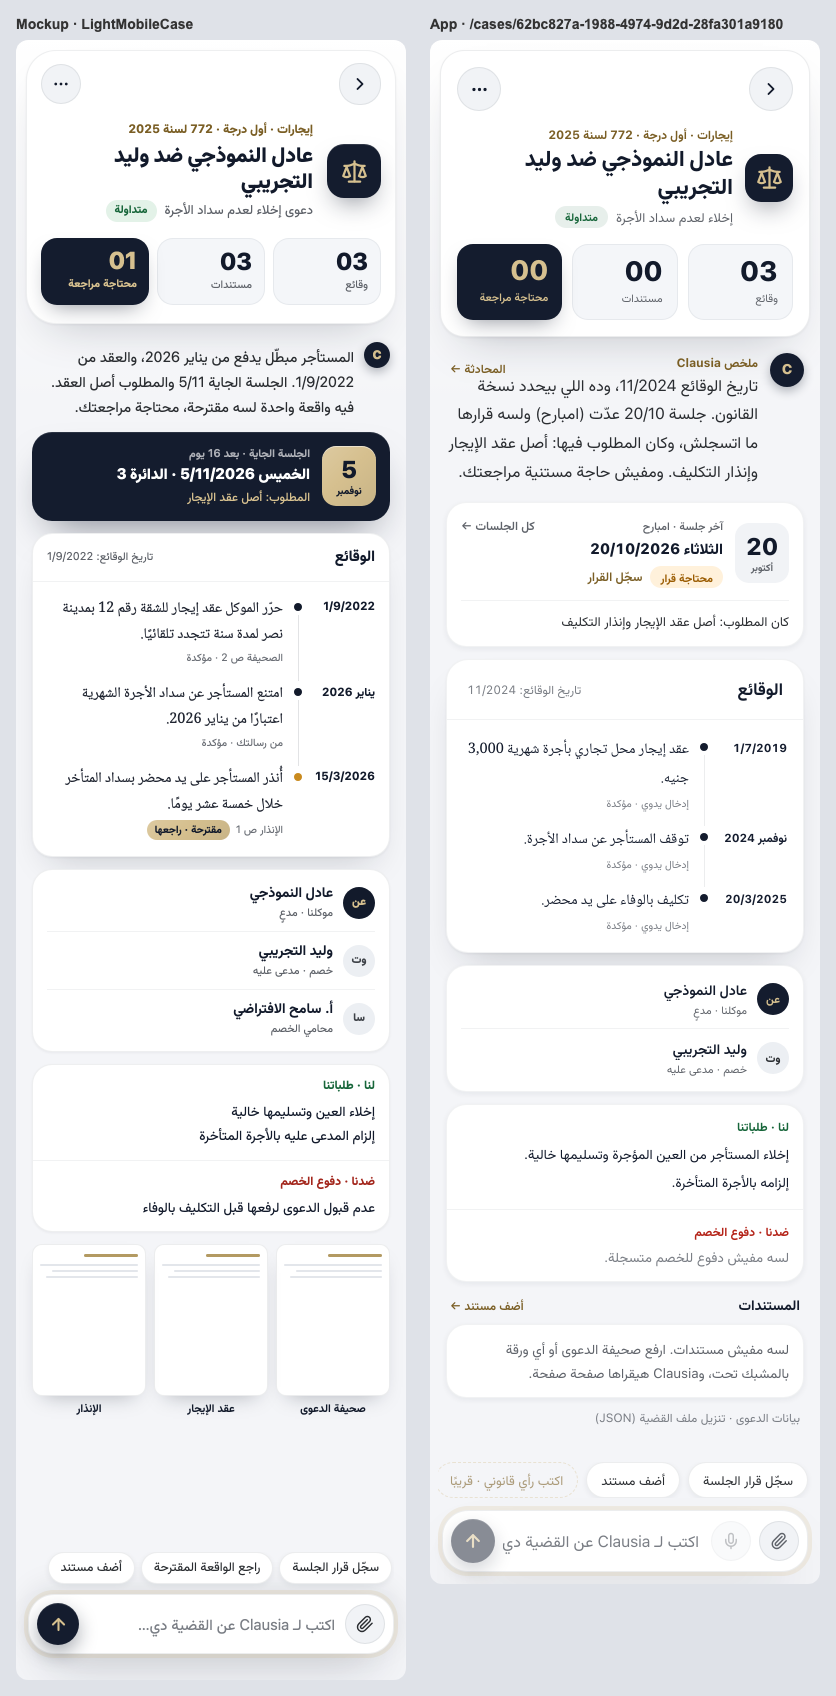
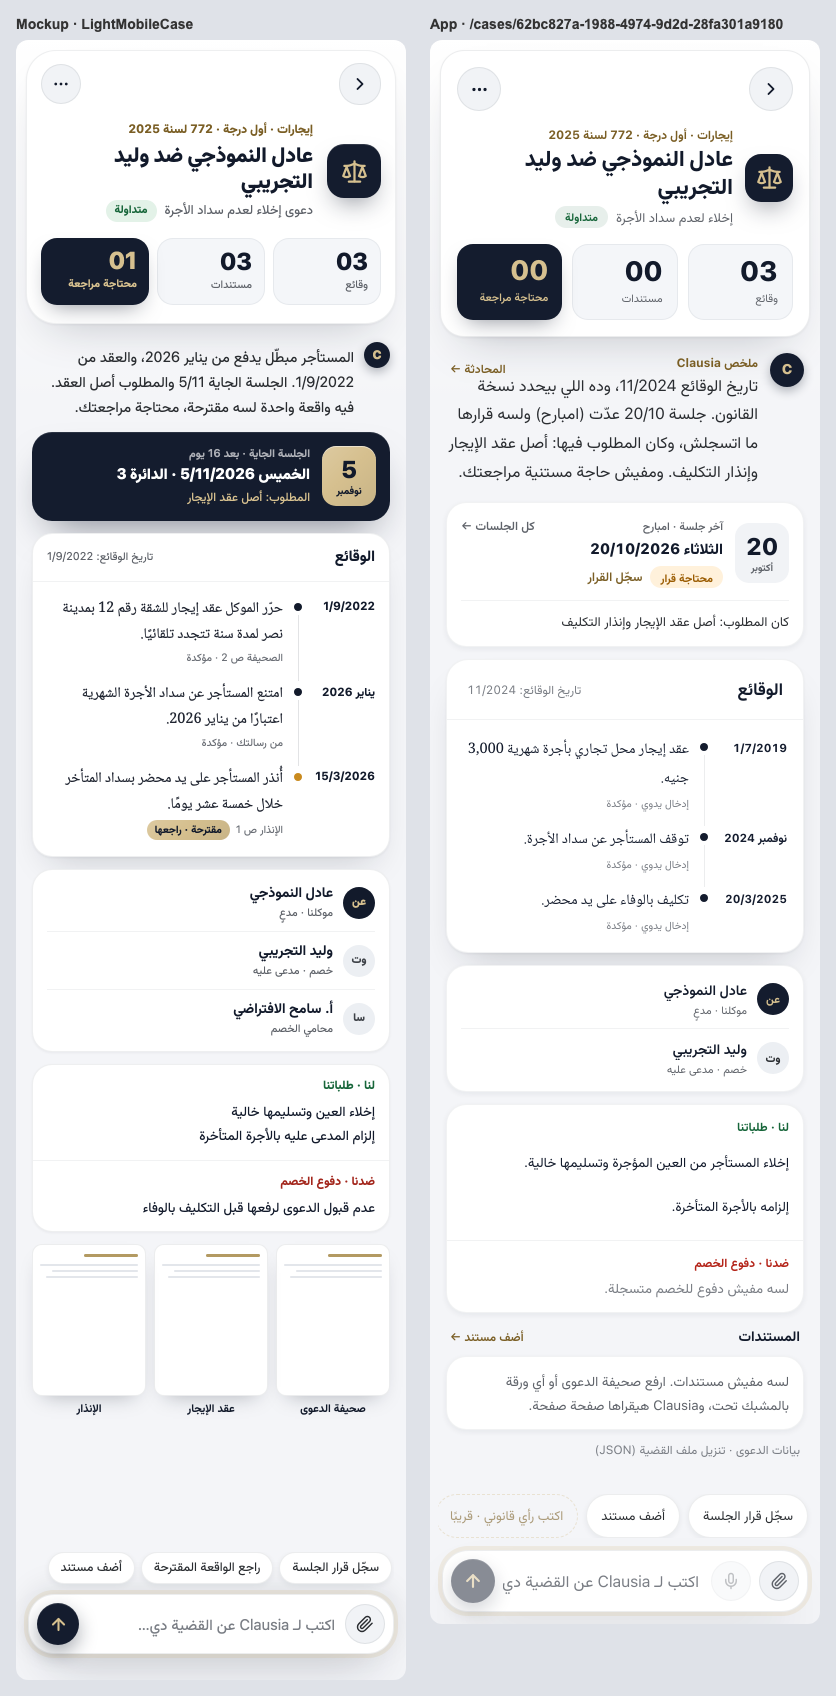
Fable re-review fixes: hero action only on mobile (tiles stay on one row), 44px chips/links/rows, tile shadow token, chat hero link keeps its arrow

Changed region(s): [[0.5287, 0.6562, 0.9641, 0.9688]]

diff --git a/src/app/globals.css b/src/app/globals.css
@@ -68,6 +68,7 @@
   --shadow-pop: inset 0 1px 0 #FFFFFF, 0 0 0 4px var(--accent-ring), 0 30px 60px -24px rgba(18,26,43,0.35);
   --shadow-accent: inset 0 1px 0 rgba(255,255,255,0.55), 0 18px 36px -16px var(--accent-shadow);
   --shadow-mark: 0 4px 10px rgba(18,26,43,0.3);
+  --shadow-tile: 0 12px 26px -10px rgba(18,26,43,0.55);
 
   /* ---- legacy names, mapped onto the new tokens (older components still use them) ---- */
   --paper: var(--bg); --surface: var(--card); --surface-2: var(--card-2); --chrome: rgba(244,245,248,0.82);
@@ -128,6 +129,7 @@
   --shadow-soft: inset 0 1px 0 rgba(255,255,255,0.05);
   --shadow-pop: inset 0 1px 0 rgba(255,255,255,0.05), 0 30px 70px -24px rgba(0,0,0,0.8);
   --shadow-mark: 0 4px 12px rgba(214,192,143,0.25);
+  --shadow-tile: 0 12px 26px -10px rgba(0,0,0,0.6);
   --shadow-accent: inset 0 1px 0 rgba(255,255,255,0.55), 0 18px 36px -16px var(--accent-shadow);
 
   --chrome: rgba(11,15,24,0.8); --line-strong: rgba(255,255,255,0.16); --backdrop: rgba(0,0,0,0.6);
@@ -179,6 +181,7 @@
   --shadow-soft: inset 0 1px 0 rgba(255,255,255,0.05);
   --shadow-pop: inset 0 1px 0 rgba(255,255,255,0.05), 0 30px 70px -24px rgba(0,0,0,0.8);
   --shadow-mark: 0 4px 12px rgba(214,192,143,0.25);
+  --shadow-tile: 0 12px 26px -10px rgba(0,0,0,0.6);
   --shadow-accent: inset 0 1px 0 rgba(255,255,255,0.55), 0 18px 36px -16px var(--accent-shadow);
 
   --chrome: rgba(11,15,24,0.8); --line-strong: rgba(255,255,255,0.16); --backdrop: rgba(0,0,0,0.6);
@@ -249,6 +252,7 @@
   --shadow-pop: var(--shadow-pop);
   --shadow-accent: var(--shadow-accent);
   --shadow-mark: var(--shadow-mark);
+  --shadow-tile: var(--shadow-tile);
   /* type scale (mockups): display 34, title 26/22, body 16, callout 14, caption 12 */
   --text-display: 2.125rem;
   --text-display--line-height: 1.15;

diff --git a/src/components/proposal/ProposalCard.tsx b/src/components/proposal/ProposalCard.tsx
@@ -323,7 +323,7 @@ export function ProposalCard({ proposal: initial, lookup = {} }: { proposal: Pro
                     </div>
 
                     {o.status === "failed" && o.error ? <p className="rounded-xl bg-bad-bg px-3 py-2 text-[13px] text-bad">{o.error}</p> : null}
-                    {o.result_id && o.tool === "create_case" ? <Link href={`/cases/${o.result_id}`} className="inline-block text-[13.5px] font-semibold text-gold-text hover:underline">فتح ملف القضية ←</Link> : null}
+                    {o.result_id && o.tool === "create_case" ? <Link href={`/cases/${o.result_id}`} className="inline-flex min-h-11 items-center text-[13.5px] font-semibold text-gold-text hover:underline">فتح ملف القضية ←</Link> : null}
 
                     {live ? (
                       <div className="flex flex-wrap items-center gap-2">
@@ -384,7 +384,7 @@ export function ProposalCard({ proposal: initial, lookup = {} }: { proposal: Pro
           ) : (
             <p className="text-[13.5px] text-text-2">{decisionSummary(p)}</p>
           )}
-          {caseLink ? <Link href={`/cases/${caseLink}`} className={cx("text-[13.5px] font-semibold text-gold-text hover:underline", openOps.length ? "self-center" : "sm:ms-auto")}>فتح ملف القضية ←</Link> : null}
+          {caseLink ? <Link href={`/cases/${caseLink}`} className={cx("inline-flex min-h-11 items-center text-[13.5px] font-semibold text-gold-text hover:underline", openOps.length ? "self-center" : "sm:ms-auto")}>فتح ملف القضية ←</Link> : null}
         </div>
       </div>
     );

diff --git a/src/components/shell/Composer.tsx b/src/components/shell/Composer.tsx
@@ -81,7 +81,7 @@ export function Composer({ target, placeholder = "اكتب لـ Clausia… ما 
       {chips.length ? (
         <div className="no-scrollbar -mx-1 mb-3 flex gap-2 overflow-x-auto px-1 sm:flex-wrap">
           {chips.map((c) => {
-            const cls = `inline-flex h-9 shrink-0 items-center rounded-full px-3.5 text-[13px] transition disabled:cursor-not-allowed ${c.accent ? "bg-tile-hi font-bold shadow-soft" : c.ghost ? "border border-dashed border-gold/60 text-gold-text" : "border border-border bg-chip text-text-2 shadow-soft hover:text-text"} ${c.disabled ? "opacity-60" : ""}`;
+            const cls = `inline-flex h-11 sm:h-9 shrink-0 items-center rounded-full px-3.5 text-[13px] transition disabled:cursor-not-allowed ${c.accent ? "bg-tile-hi font-bold shadow-soft" : c.ghost ? "border border-dashed border-gold/60 text-gold-text" : "border border-border bg-chip text-text-2 shadow-soft hover:text-text"} ${c.disabled ? "opacity-60" : ""}`;
             const label = c.short ? <><span className="sm:hidden">{c.short}</span><span className="hidden sm:inline">{c.label}</span></> : c.label;
             if (c.href && !c.disabled) return <a key={c.label} href={c.href} className={cls}>{label}</a>;
             return (

diff --git a/src/components/shell/PageHero.tsx b/src/components/shell/PageHero.tsx
@@ -65,7 +65,7 @@ export function PageHero({ back, action, icon, eyebrow, title, subtitle, stats, 
       ) : null}
       <div className="flex min-w-0 flex-[1_1_380px] items-center gap-3 sm:gap-4">
         {back ? (<span className="hidden sm:contents"><BackBtn href={back} /></span>) : null}
-        <div className="mark inline-flex size-12 shrink-0 items-center justify-center rounded-[16px] shadow-[0_12px_26px_-10px_rgba(18,26,43,0.55)] sm:size-[60px] sm:rounded-[19px]">
+        <div className="mark inline-flex size-12 shrink-0 items-center justify-center rounded-[16px] shadow-tile sm:size-[60px] sm:rounded-[19px]">
           {icon}
         </div>
         <div className="min-w-0">
@@ -74,7 +74,6 @@ export function PageHero({ back, action, icon, eyebrow, title, subtitle, stats, 
           {subtitle ? <div className="mt-1.5 flex flex-wrap items-center gap-2 text-[13px] text-text-3">{subtitle}</div> : null}
         </div>
       </div>
-      {action ? <div className="hidden sm:block">{action}</div> : null}
       {stats?.length ? (
         <div className="grid w-full flex-[0_1_470px] grid-cols-3 gap-2.5">
           {stats.map((s) => <StatTile key={s.label} s={s} />)}

diff --git a/src/app/(app)/chat/[threadId]/page.tsx b/src/app/(app)/chat/[threadId]/page.tsx
@@ -38,7 +38,7 @@ export default async function ThreadPage({ params }: { params: Promise<{ threadI
         icon={<span className="font-num text-[25px] font-black sm:text-[30px]">C</span>}
         eyebrow={eyebrow}
         title={title}
-        subtitle={c ? <Link href={`/cases/${c.id}`} className="font-semibold text-gold-text hover:underline">{c.court ? `${c.court} · ` : ""}فتح ملف القضية ←</Link> : undefined}
+        subtitle={c ? <Link href={`/cases/${c.id}`} className="inline-flex min-h-11 items-center font-semibold text-gold-text hover:underline"><span className="hidden sm:inline">{c.court ? `${c.court} · ` : ""}</span><span className="whitespace-nowrap">فتح ملف القضية ←</span></Link> : undefined}
         stats={[
           { value: data.stats.docsRead, label: "ورقة اتقرت" },
           { value: data.stats.readyOps, label: "عناصر جاهزة" },

diff --git a/src/app/(app)/hearings/page.tsx b/src/app/(app)/hearings/page.tsx
@@ -144,7 +144,7 @@ export default async function Roll({ searchParams }: { searchParams: Promise<{ v
             <div className="inline-flex rounded-full border border-border bg-card-2 p-[3px] text-[13px]">
               {(["day", "week"] as const).map((v) => (
                 <Link key={v} href={href(v, date)} aria-current={v === view ? "page" : undefined}
-                  className={cx("inline-flex h-10 items-center rounded-full px-4 transition sm:h-[30px]", v === view ? "bg-card font-bold text-text shadow-soft" : "text-text-3 hover:text-text")}>
+                  className={cx("inline-flex h-11 items-center rounded-full px-4 transition sm:h-10", v === view ? "bg-card font-bold text-text shadow-soft" : "text-text-3 hover:text-text")}>
                   {v === "day" ? "يوم" : "أسبوع"}
                 </Link>
               ))}

diff --git a/src/components/cases/ItemSheet.tsx b/src/components/cases/ItemSheet.tsx
@@ -25,7 +25,7 @@ export function TapItem({ id, title, row, children, className = "" }: { id: stri
   return (
     <div id={`item-${id}`} className="scroll-mt-24">
       <button type="button" onClick={() => ref.current?.showModal()} aria-haspopup="dialog"
-        className={`block w-full cursor-pointer text-start transition-colors hover:bg-card-2/60 focus-visible:bg-card-2/60 ${className}`}>
+        className={`block min-h-11 w-full cursor-pointer text-start transition-colors hover:bg-card-2/60 focus-visible:bg-card-2/60 ${className}`}>
         {row}
       </button>
       <dialog ref={ref} aria-label={title}
